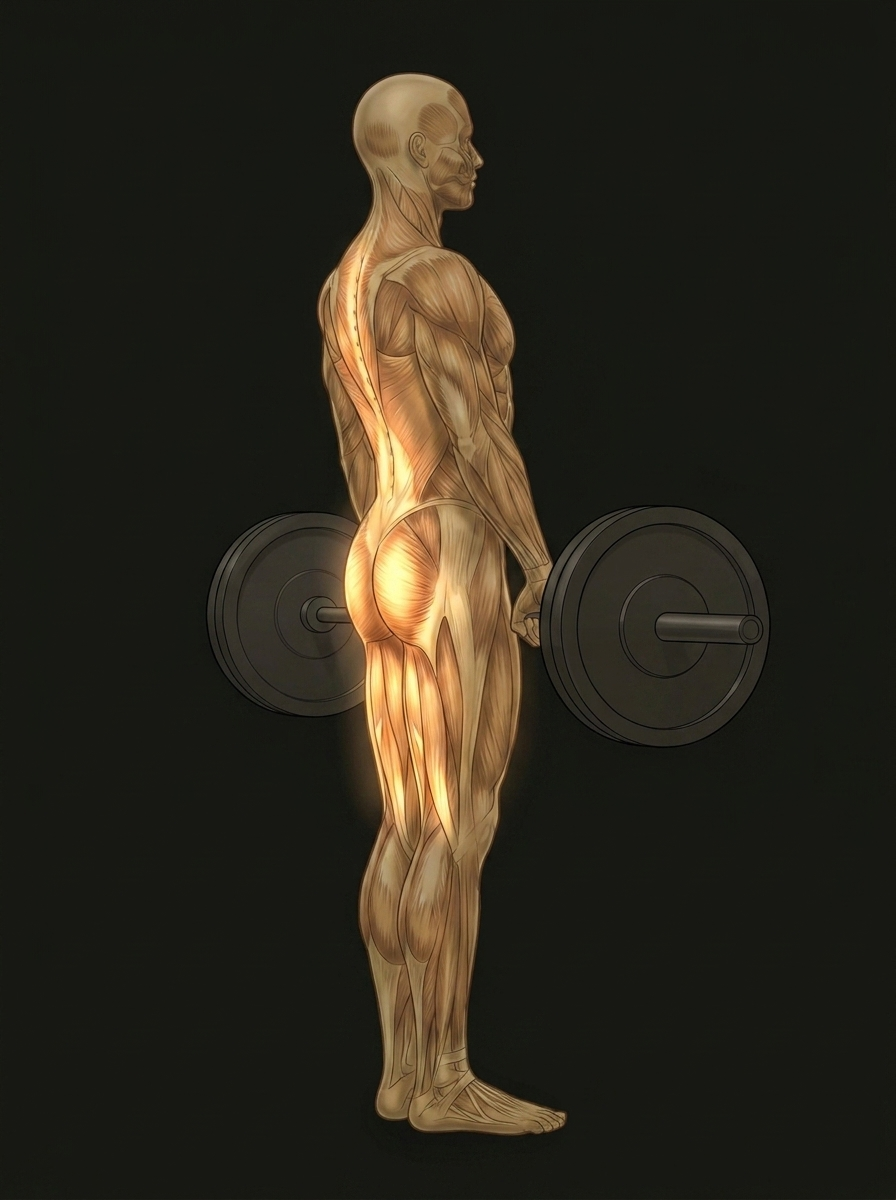
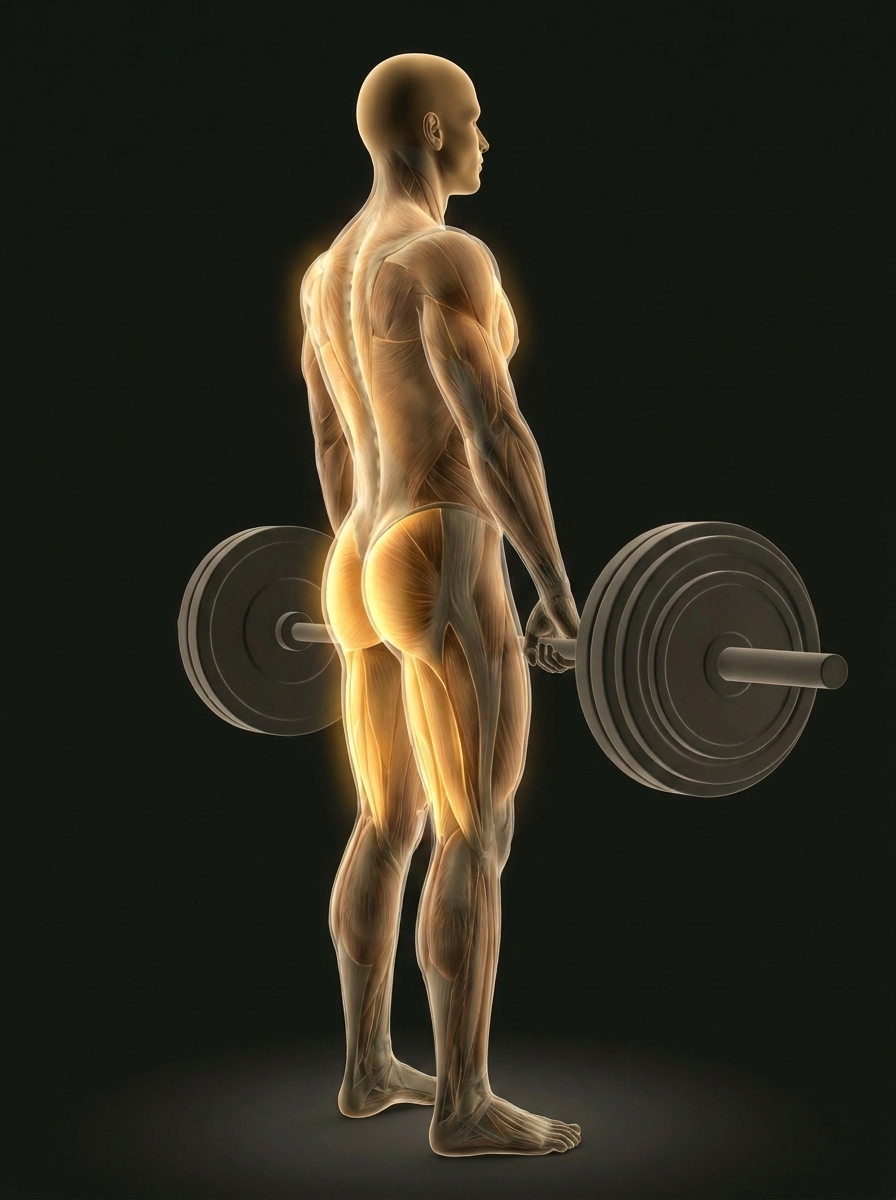
Draw all 40 exercises, and drop the faces
Completes the illustration set and applies the review notes.

Faces removed: the head is now a smooth featureless brass form. The drawn
faces pulled attention away from the muscle the image exists to show, and
the earlier set had also rendered the head in grey, detached from the
brass body. Both are fixed in the style prompt, along with the bench,
which had shrunk to a stub that left the body looking unsupported.

Backgrounds are held to one flat charcoal field: push-up, plank and cable
crunch had each grown a lighter floor slab that broke the set.

Two exercises came out as the wrong movement because the style reference
image is itself a flat bench press, which biased them: incline press kept
being drawn on a flat bench, and front squat kept putting the bar behind
the neck. Generating those two without the reference fixed both — the
style prompt alone carries the look. REF_IMAGE now lets a single image be
regenerated against an existing reference instead of rerunning the set.

All 40 built-in exercises carry art, so the ART allowlist is gone; art
applies to everything except user-created exercises. figureSVG() stays as
the fallback for those and for any image that fails to load.

40 sources total 14.7 MB, shipped as 0.94 MB of WebP. Cache version bumped.

Claude-Session: https://claude.ai/code/session_01CEfLQDrX7ygFZ4jMGjAZXp

Changed region(s): [[0.1875, 0.0308, 0.9688, 0.9867]]

diff --git a/index.html b/index.html
@@ -794,10 +794,9 @@ const DB = [
     eq:['floor'], ar:[{at:'hip',d:[0,-1],l:18}]},
  d:[3,40,45], unitReps:'秒'}
 ];
-/* 有解剖插畫的動作（檔名同 id，放在 img/<id>.webp）。
-   沒列在這裡的動作會用 figureSVG() 畫的人形示意圖，兩者可以並存。 */
-const ART = new Set(['bench','squat','deadlift','pullup','lateral','plank']);
-DB.forEach(e=>{ if(ART.has(e.id)) e.art=e.id; });
+/* 內建 40 個動作都有解剖插畫（img/<id>.webp，檔名同 id）。
+   自訂動作沒有圖，會退回 figureSVG() 畫的人形示意圖；插畫載不到時也一樣。 */
+DB.forEach(e=>{ if(!e.custom) e.art=e.id; });
 
 const BYID = Object.fromEntries(DB.map(e=>[e.id,e]));
 

diff --git a/sw.js b/sw.js
@@ -1,7 +1,7 @@
 /* 鐵日誌 service worker — 讓頁面在健身房沒訊號時也打得開。
    HTML 走 network-first（推新版上去，下次連網就會換新）；
    圖示等靜態檔走 cache-first。改版時把 VERSION 加一。 */
-const VERSION = 'ironlog-v2';
+const VERSION = 'ironlog-v3';
 const SHELL = [
   './',
   './index.html',

diff --git a/README.md b/README.md
@@ -9,7 +9,7 @@
 - **一到日的課表**：週曆選日期，或在課表區左右滑動換日
 - **記錄最大重量與組數**：每組填重量 × 次數，練完打勾。最大重量與估算 1RM（Epley 公式）會從所有打勾的組數自動算出來
 - **配重建議**：依估算 1RM 給力量／肌力／增肌／代謝／熱身五種重量組數搭配，點一下直接套用
-- **40 個動作的資料庫**：每個動作有姿勢示意圖、出力方向、目標肌群、動作要領、常見錯誤與呼吸節奏
+- **40 個動作的資料庫**：每個動作有解剖透視插畫（皮膚半透明、目標肌群發亮）、出力方向、目標肌群、動作要領、常見錯誤與呼吸節奏
 - **課表範本**：內建推日／拉日／腿日，也能把任何一天存成自己的範本
 - **離線可用**：第一次打開後就會快取，健身房沒訊號也能開
 
@@ -34,7 +34,28 @@
 
 整個程式就是 `index.html` 一個檔案，沒有 build 步驟。Fork 之後改完推上 `main`，GitHub Actions 會自動部署到你自己的 Pages。
 
-動作資料在檔案裡的 `DB` 陣列，人形示意圖由 `figureSVG()` 依關節角度即時算出來（角度一律是「畫面角度」：0 朝下、90 朝右、180 朝上）。
+動作資料在檔案裡的 `DB` 陣列。
+
+## 動作插畫
+
+`img/*.webp` 的 40 張解剖透視圖是用 Gemini（`gemini-3-pro-image`）生成的，腳本與提示詞在
+`scripts/gen-exercise-art.mjs`。為了讓整組風格一致，做法是先生一張「風格基準圖」，之後每張都把
+基準圖一併送進去做風格條件化 —— 40 張各自獨立生成的話，配色與人物比例會整組走鐘。
+
+```bash
+GEMINI_API_KEY=... node scripts/gen-exercise-art.mjs [動作id ...]   # 生成 → img/
+REF_IMAGE=img/src/bench.png ...                                     # 指定現成的基準圖
+node scripts/optimize-art.mjs 0.82                                  # img/src/*.png → 600×800 webp
+```
+
+原始 PNG 留在 `img/src/`（14.7 MB），網站實際載入的是壓過的 WebP（合計 0.94 MB）。
+
+**AI 生圖不是一次就對。** 硬舉試了四次（槓一直跑到身體後方，後來乾脆缺手臂）才改用構圖較單純的
+站姿鎖定位；上斜推舉與前蹲舉則是被「平板臥推」的基準圖帶偏，得拿掉基準圖才畫對。要重生某張圖時，
+先看它是不是被基準圖拉往錯的方向。
+
+插畫載不到時（離線還沒快取、檔案漏掉），`artLayer()` 會退回 `figureSVG()` 即時算出來的人形示意圖 ——
+關節角度一律是「畫面角度」：0 朝下、90 朝右、180 朝上。自訂動作也走這條路。
 
 ## 授權
 
